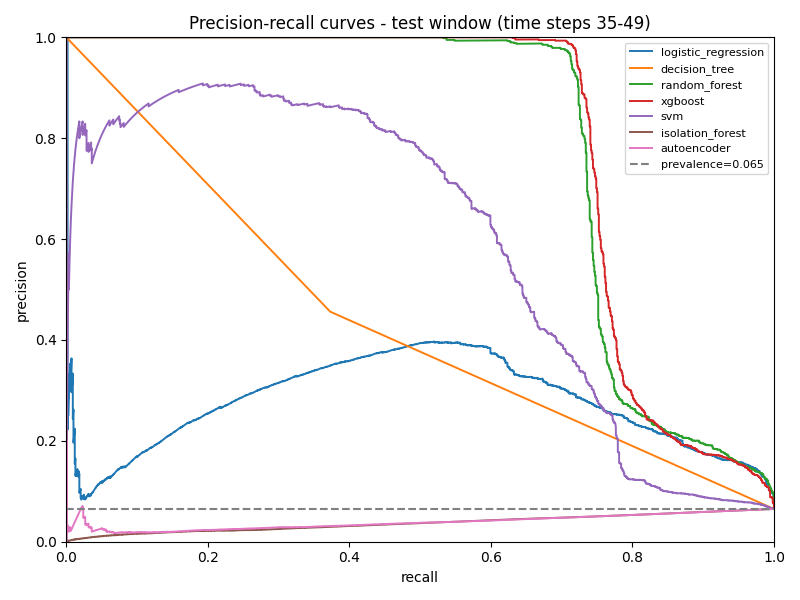
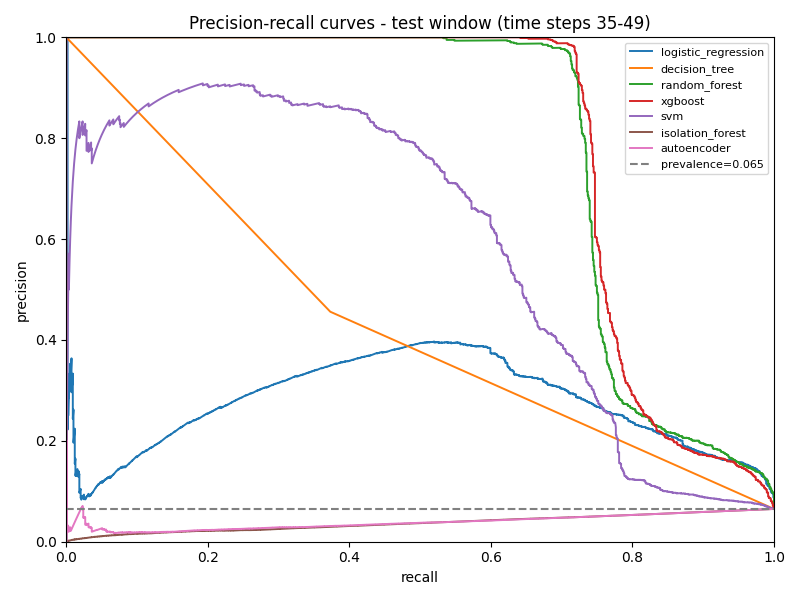
GPU retune (50 trials) + rerun final eval: XGBoost AP=0.801 F1=0.796
- XGBoost trained on RTX 4060 via device=cuda; AE on cu126 torch
- GPU verified at 80-87% utilization during training

diff --git a/results/metrics/comparison.md b/results/metrics/comparison.md
@@ -1,11 +1,11 @@
 | model | family | P | R | F1 | AP | ROC-AUC | P@100 | R@100 | time(s) |
 |---|---|---|---|---|---|---|---|---|---|
-| xgboost | tabular | 0.866 | 0.735 | 0.795 | 0.803 | 0.934 | 1.000 | 0.092 | 0.093 |
-| random_forest | tabular | 0.803 | 0.732 | 0.766 | 0.794 | 0.936 | 1.000 | 0.092 | 0.126 |
-| svm | tabular | 0.862 | 0.385 | 0.532 | 0.592 | 0.846 | 0.830 | 0.077 | 6.999 |
-| logistic_regression | tabular | 0.202 | 0.864 | 0.327 | 0.273 | 0.889 | 0.140 | 0.013 | 0.066 |
-| decision_tree | tabular | 0.456 | 0.373 | 0.410 | 0.211 | 0.671 | 0.090 | 0.008 | 0.003 |
-| isolation_forest | anomaly | 0.000 | 0.000 | 0.000 | 0.037 | 0.184 | 0.000 | 0.000 | 0.290 |
-| autoencoder | anomaly | 0.021 | 0.056 | 0.031 | 0.039 | 0.217 | 0.030 | 0.003 | 0.152 |
-| xgboost (random split) | tabular | 0.983 | 0.938 | 0.960 | 0.986 | 0.997 | 1.000 | 0.110 | nan |
-| xgboost (top-30 features) | experiment | 0.737 | 0.736 | 0.737 | 0.785 | 0.910 | 1.000 | 0.092 | nan |
+| logistic_regression | tabular | 0.202 | 0.864 | 0.327 | 0.273 | 0.889 | 0.140 | 0.013 | 0.069 |
+| decision_tree | tabular | 0.456 | 0.373 | 0.410 | 0.211 | 0.671 | 0.090 | 0.008 | 0.010 |
+| random_forest | tabular | 0.803 | 0.732 | 0.766 | 0.794 | 0.936 | 1.000 | 0.092 | 0.573 |
+| xgboost | tabular | 0.875 | 0.730 | 0.796 | 0.801 | 0.931 | 1.000 | 0.092 | 0.227 |
+| svm | tabular | 0.862 | 0.385 | 0.532 | 0.592 | 0.846 | 0.830 | 0.077 | 12.260 |
+| isolation_forest | anomaly | 0.000 | 0.000 | 0.000 | 0.037 | 0.184 | 0.000 | 0.000 | 0.279 |
+| autoencoder | anomaly | 0.021 | 0.056 | 0.031 | 0.039 | 0.217 | 0.030 | 0.003 | 0.214 |
+| xgboost_random_split | experiment | 0.985 | 0.934 | 0.959 | 0.986 | 0.997 | 1.000 | 0.110 | nan |
+| xgboost_top30_features | experiment | 0.762 | 0.729 | 0.745 | 0.784 | 0.910 | 1.000 | 0.092 | nan |
